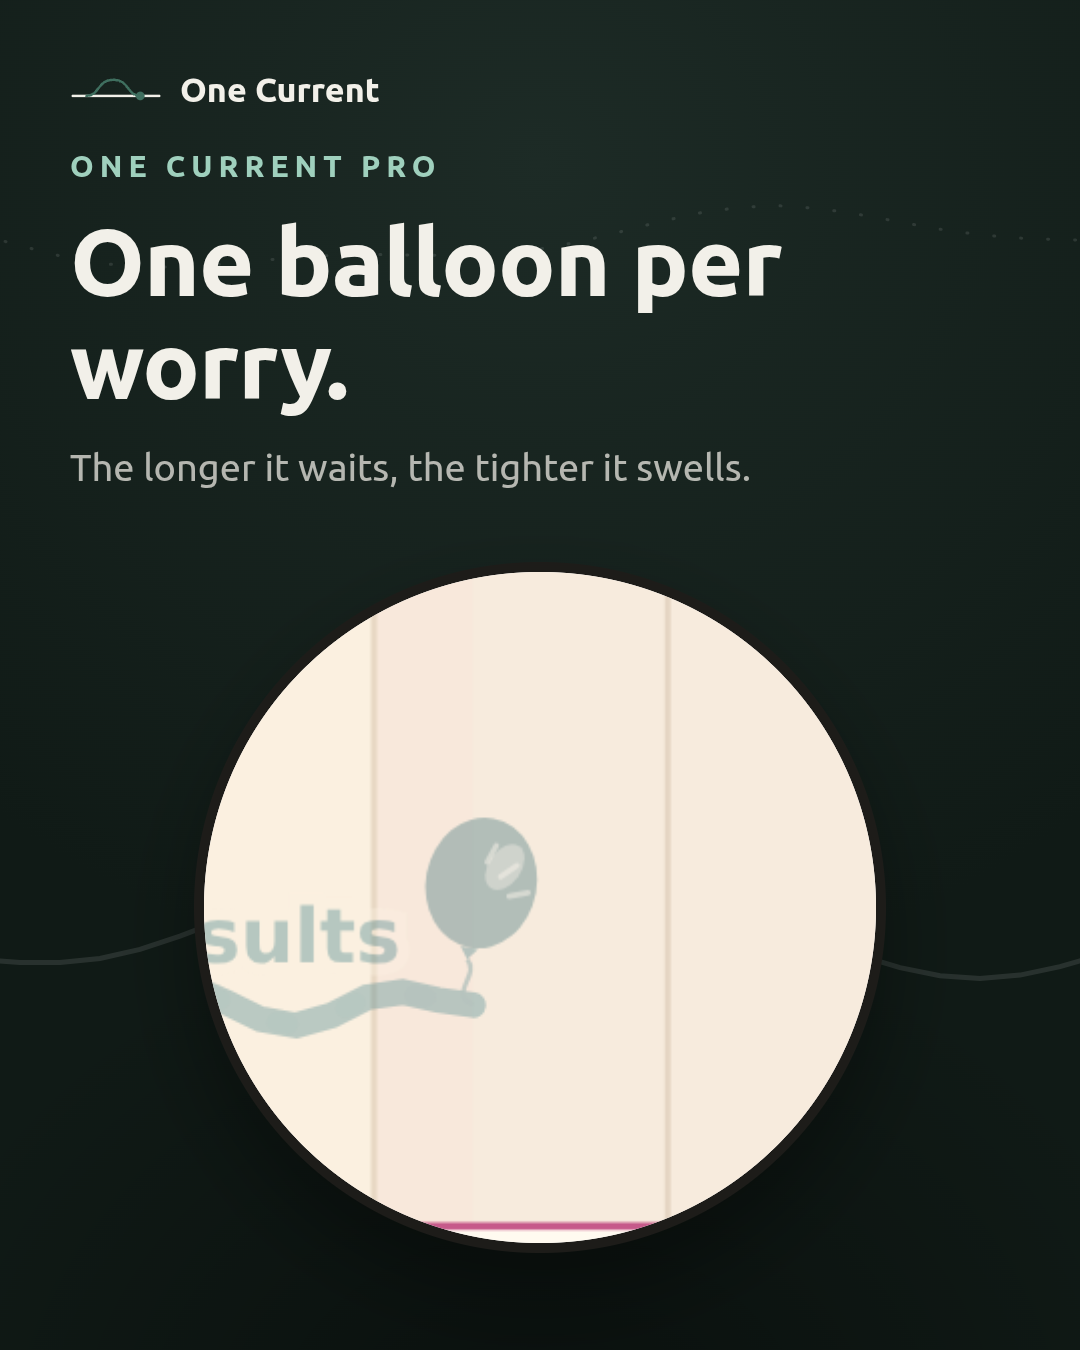
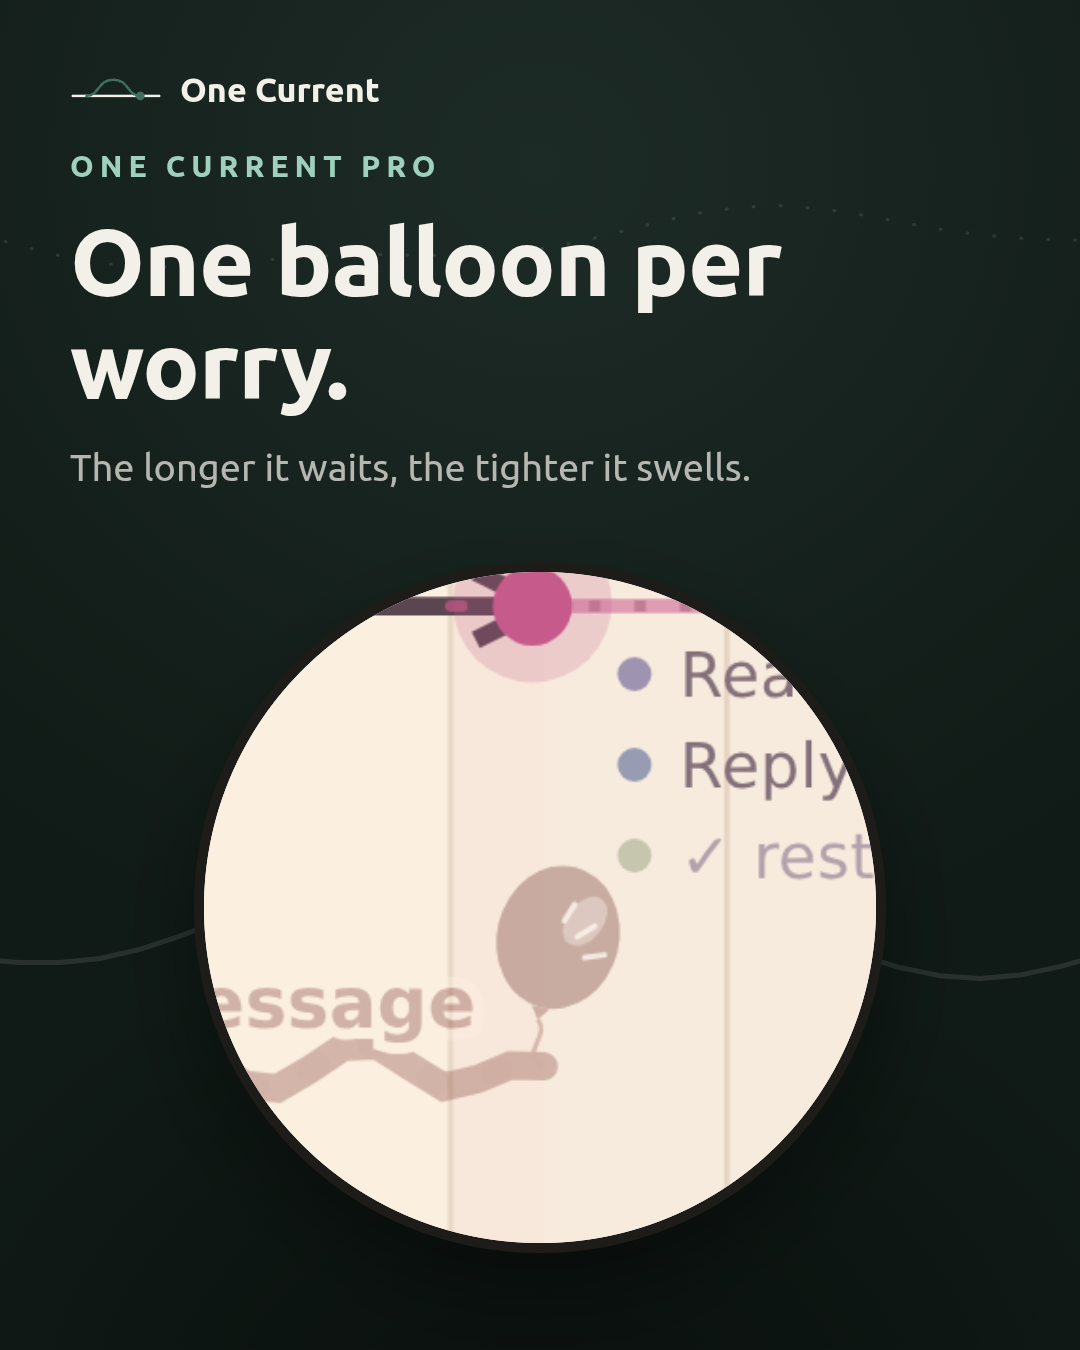
Zoom posters: retarget creature close-ups to a vivid undecided thread

Changed region(s): [[0.1833, 0.4044, 0.7944, 0.8711], [0.3972, 0.9022, 0.6111, 0.9333], [0.7028, 0.6222, 0.825, 0.6533]]

diff --git a/promo/src/posters.ts b/promo/src/posters.ts
@@ -450,11 +450,11 @@ const concepts: Concept[] = [
   },
   // ---- campaign wave 7: zoom-circle details ----
   ...[
-    ["z1-zoom-balloon", "still-theme-carnival.png", 0.575, 0.195, 3.4, "One balloon per worry.", "The longer it waits, the tighter it swells.", "dusk", "One Current Pro"],
-    ["z2-zoom-cat", "still-theme-catnap.png", 0.52, 0.21, 3.0, "It waits. Politely.", "Answer the cat, and it curls up.", "warm", "One Current Pro"],
-    ["z3-zoom-angler", "still-theme-abyss.png", 0.52, 0.21, 3.0, "Light in the deep.", "The louder it grows, the brighter its lure.", "night", "One Current Pro"],
-    ["z4-zoom-pup", "still-theme-pompom.png", 0.52, 0.21, 3.0, "Small. Loud. Loyal.", "Leave it waiting, and it barks.", "warm", "One Current Pro"],
-    ["z5-zoom-ghost", "still-theme-gravemist.png", 0.52, 0.21, 3.0, "A gentle haunting.", "Its wail widens until you answer.", "dusk", "One Current Pro"],
+    ["z1-zoom-balloon", "still-theme-carnival.png", 0.545, 0.565, 3.2, "One balloon per worry.", "The longer it waits, the tighter it swells.", "dusk", "One Current Pro"],
+    ["z2-zoom-cat", "still-theme-catnap.png", 0.545, 0.585, 3.2, "It waits. Politely.", "Answer the cat, and it curls up.", "warm", "One Current Pro"],
+    ["z3-zoom-angler", "still-theme-abyss.png", 0.545, 0.585, 3.2, "Light in the deep.", "The louder it grows, the brighter its lure.", "night", "One Current Pro"],
+    ["z4-zoom-pup", "still-theme-pompom.png", 0.545, 0.585, 3.2, "Small. Loud. Loyal.", "Leave it waiting, and it barks.", "warm", "One Current Pro"],
+    ["z5-zoom-ghost", "still-theme-gravemist.png", 0.545, 0.585, 3.2, "A gentle haunting.", "Its wail widens until you answer.", "dusk", "One Current Pro"],
     ["z6-zoom-now", "still-hero.png", 0.61, 0.5, 3.0, "Now has a pulse.", "Your present moment, always moving.", "river", "One Current"],
     ["z7-zoom-curve", "still-hero.png", 0.4, 0.53, 2.6, "The line that comes back.", "Integrated threads curve home into Now.", "river", "One Current"],
     ["z8-zoom-check", "still-hero.png", 0.535, 0.428, 3.4, "The quiet ✓ of “decided today.”", "Not solved. Answered. That counts.", "warm", "One Current"],
